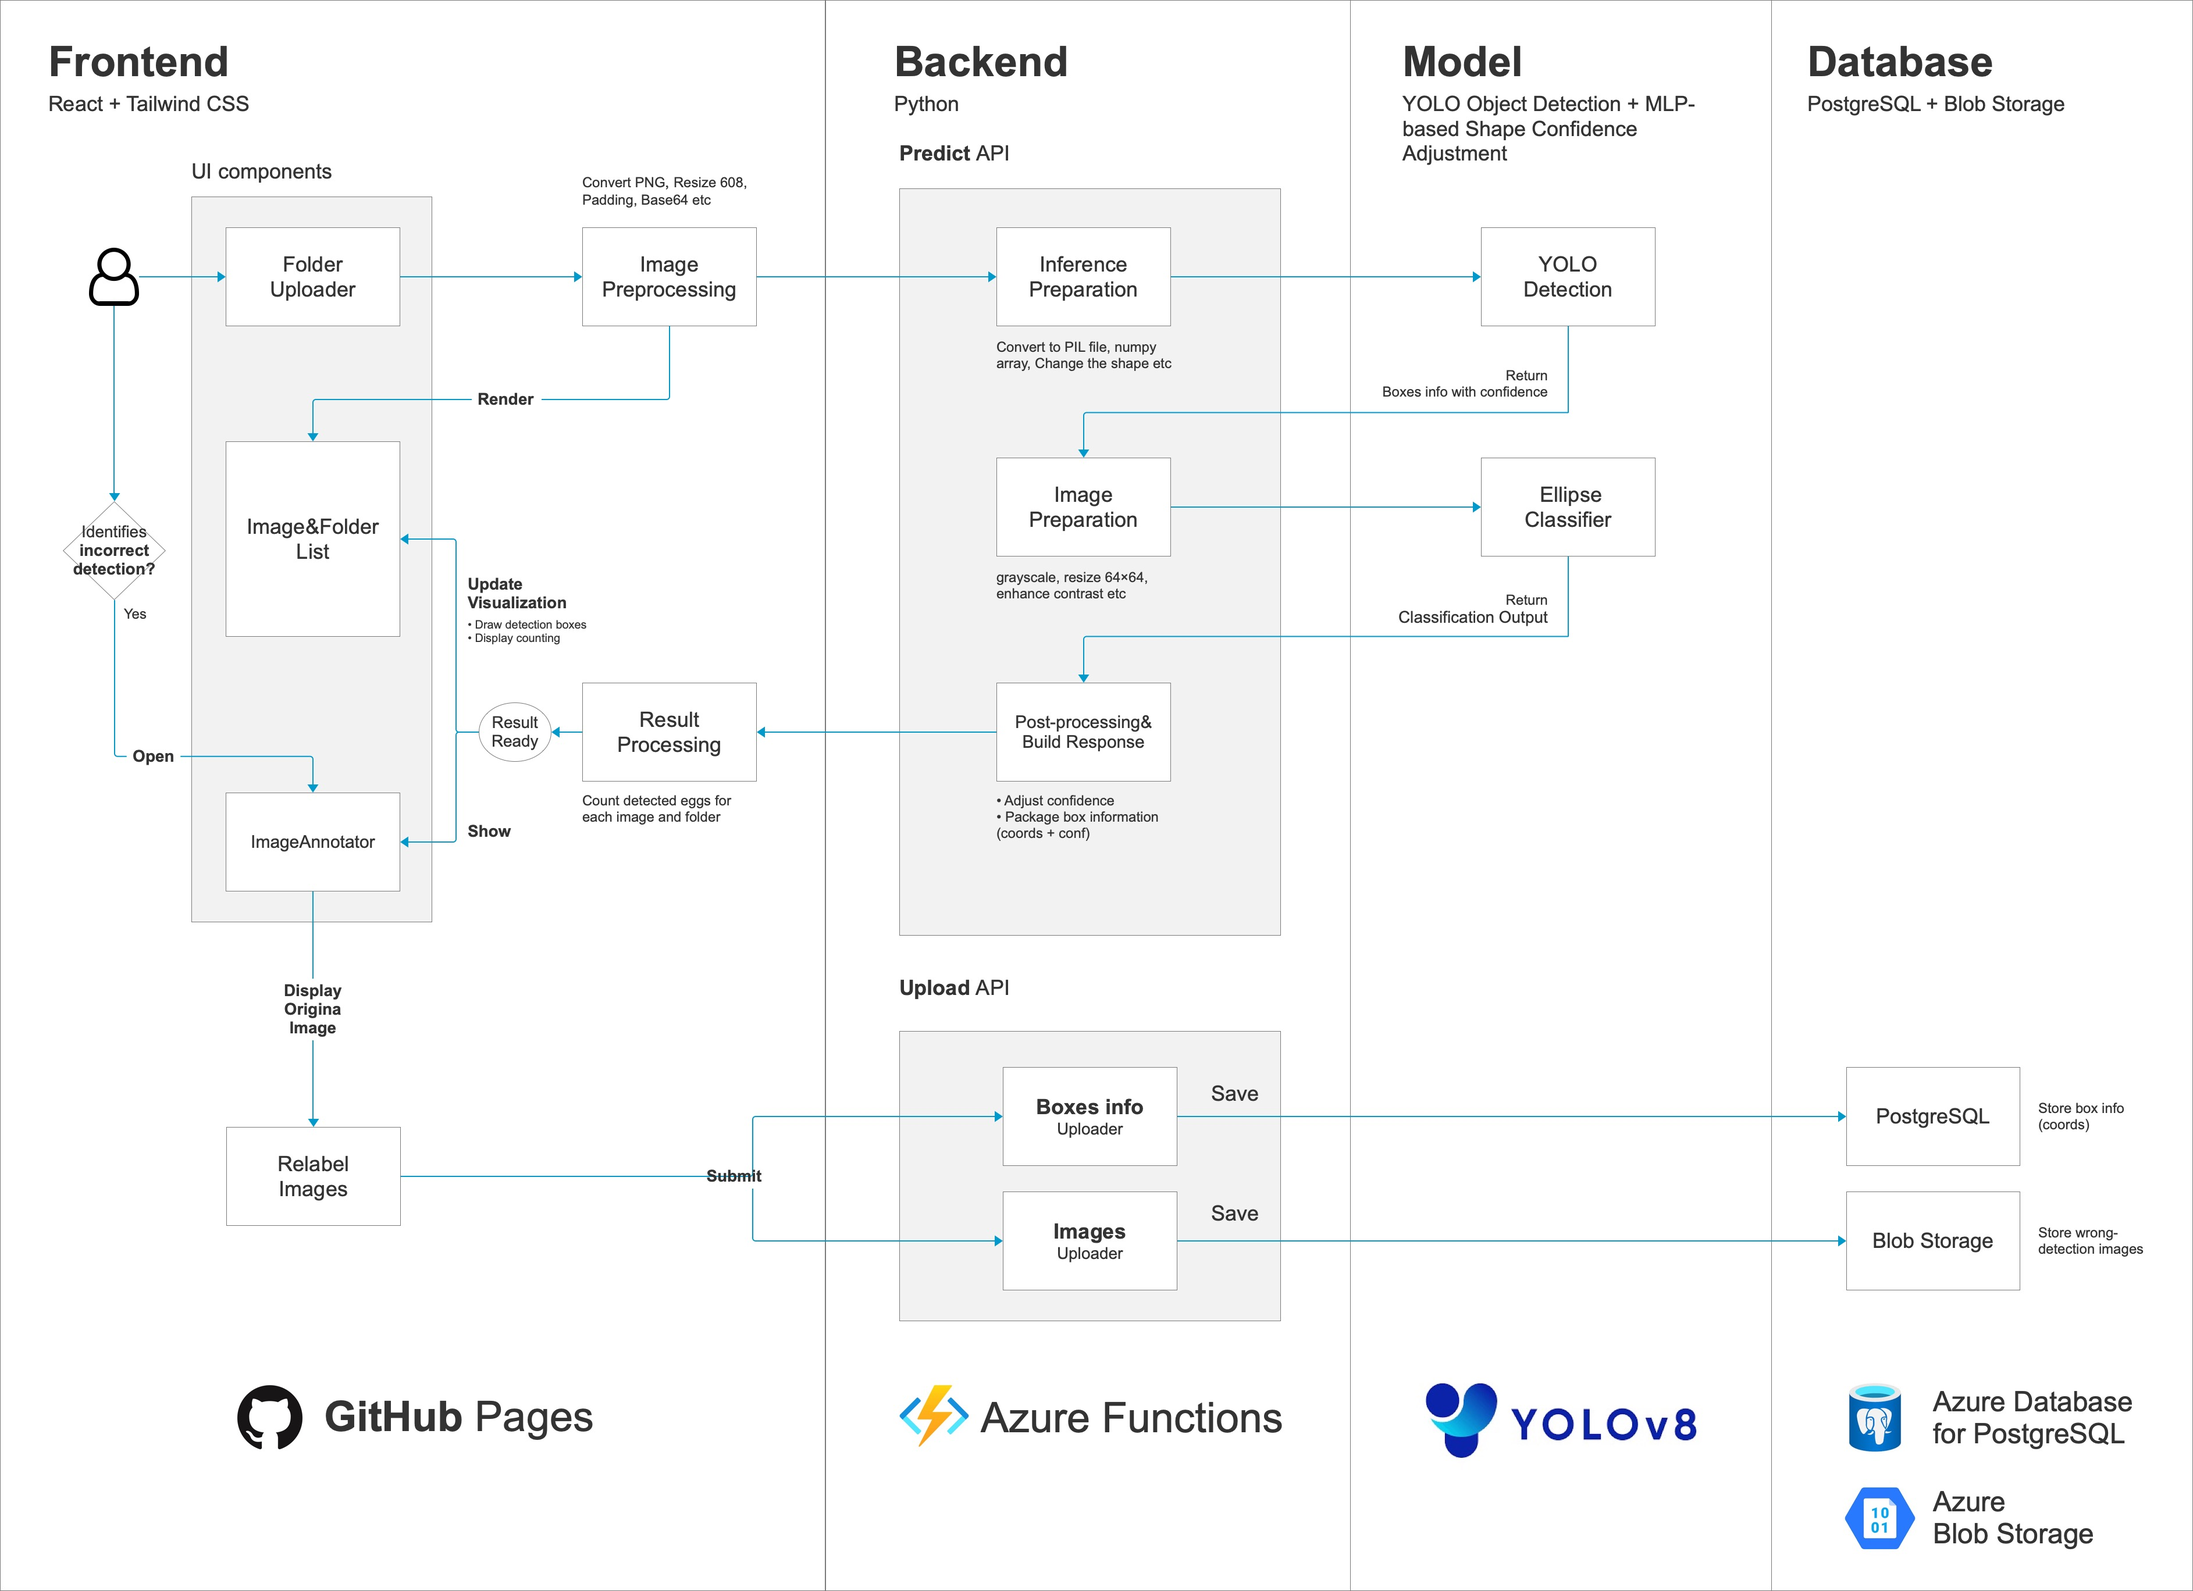
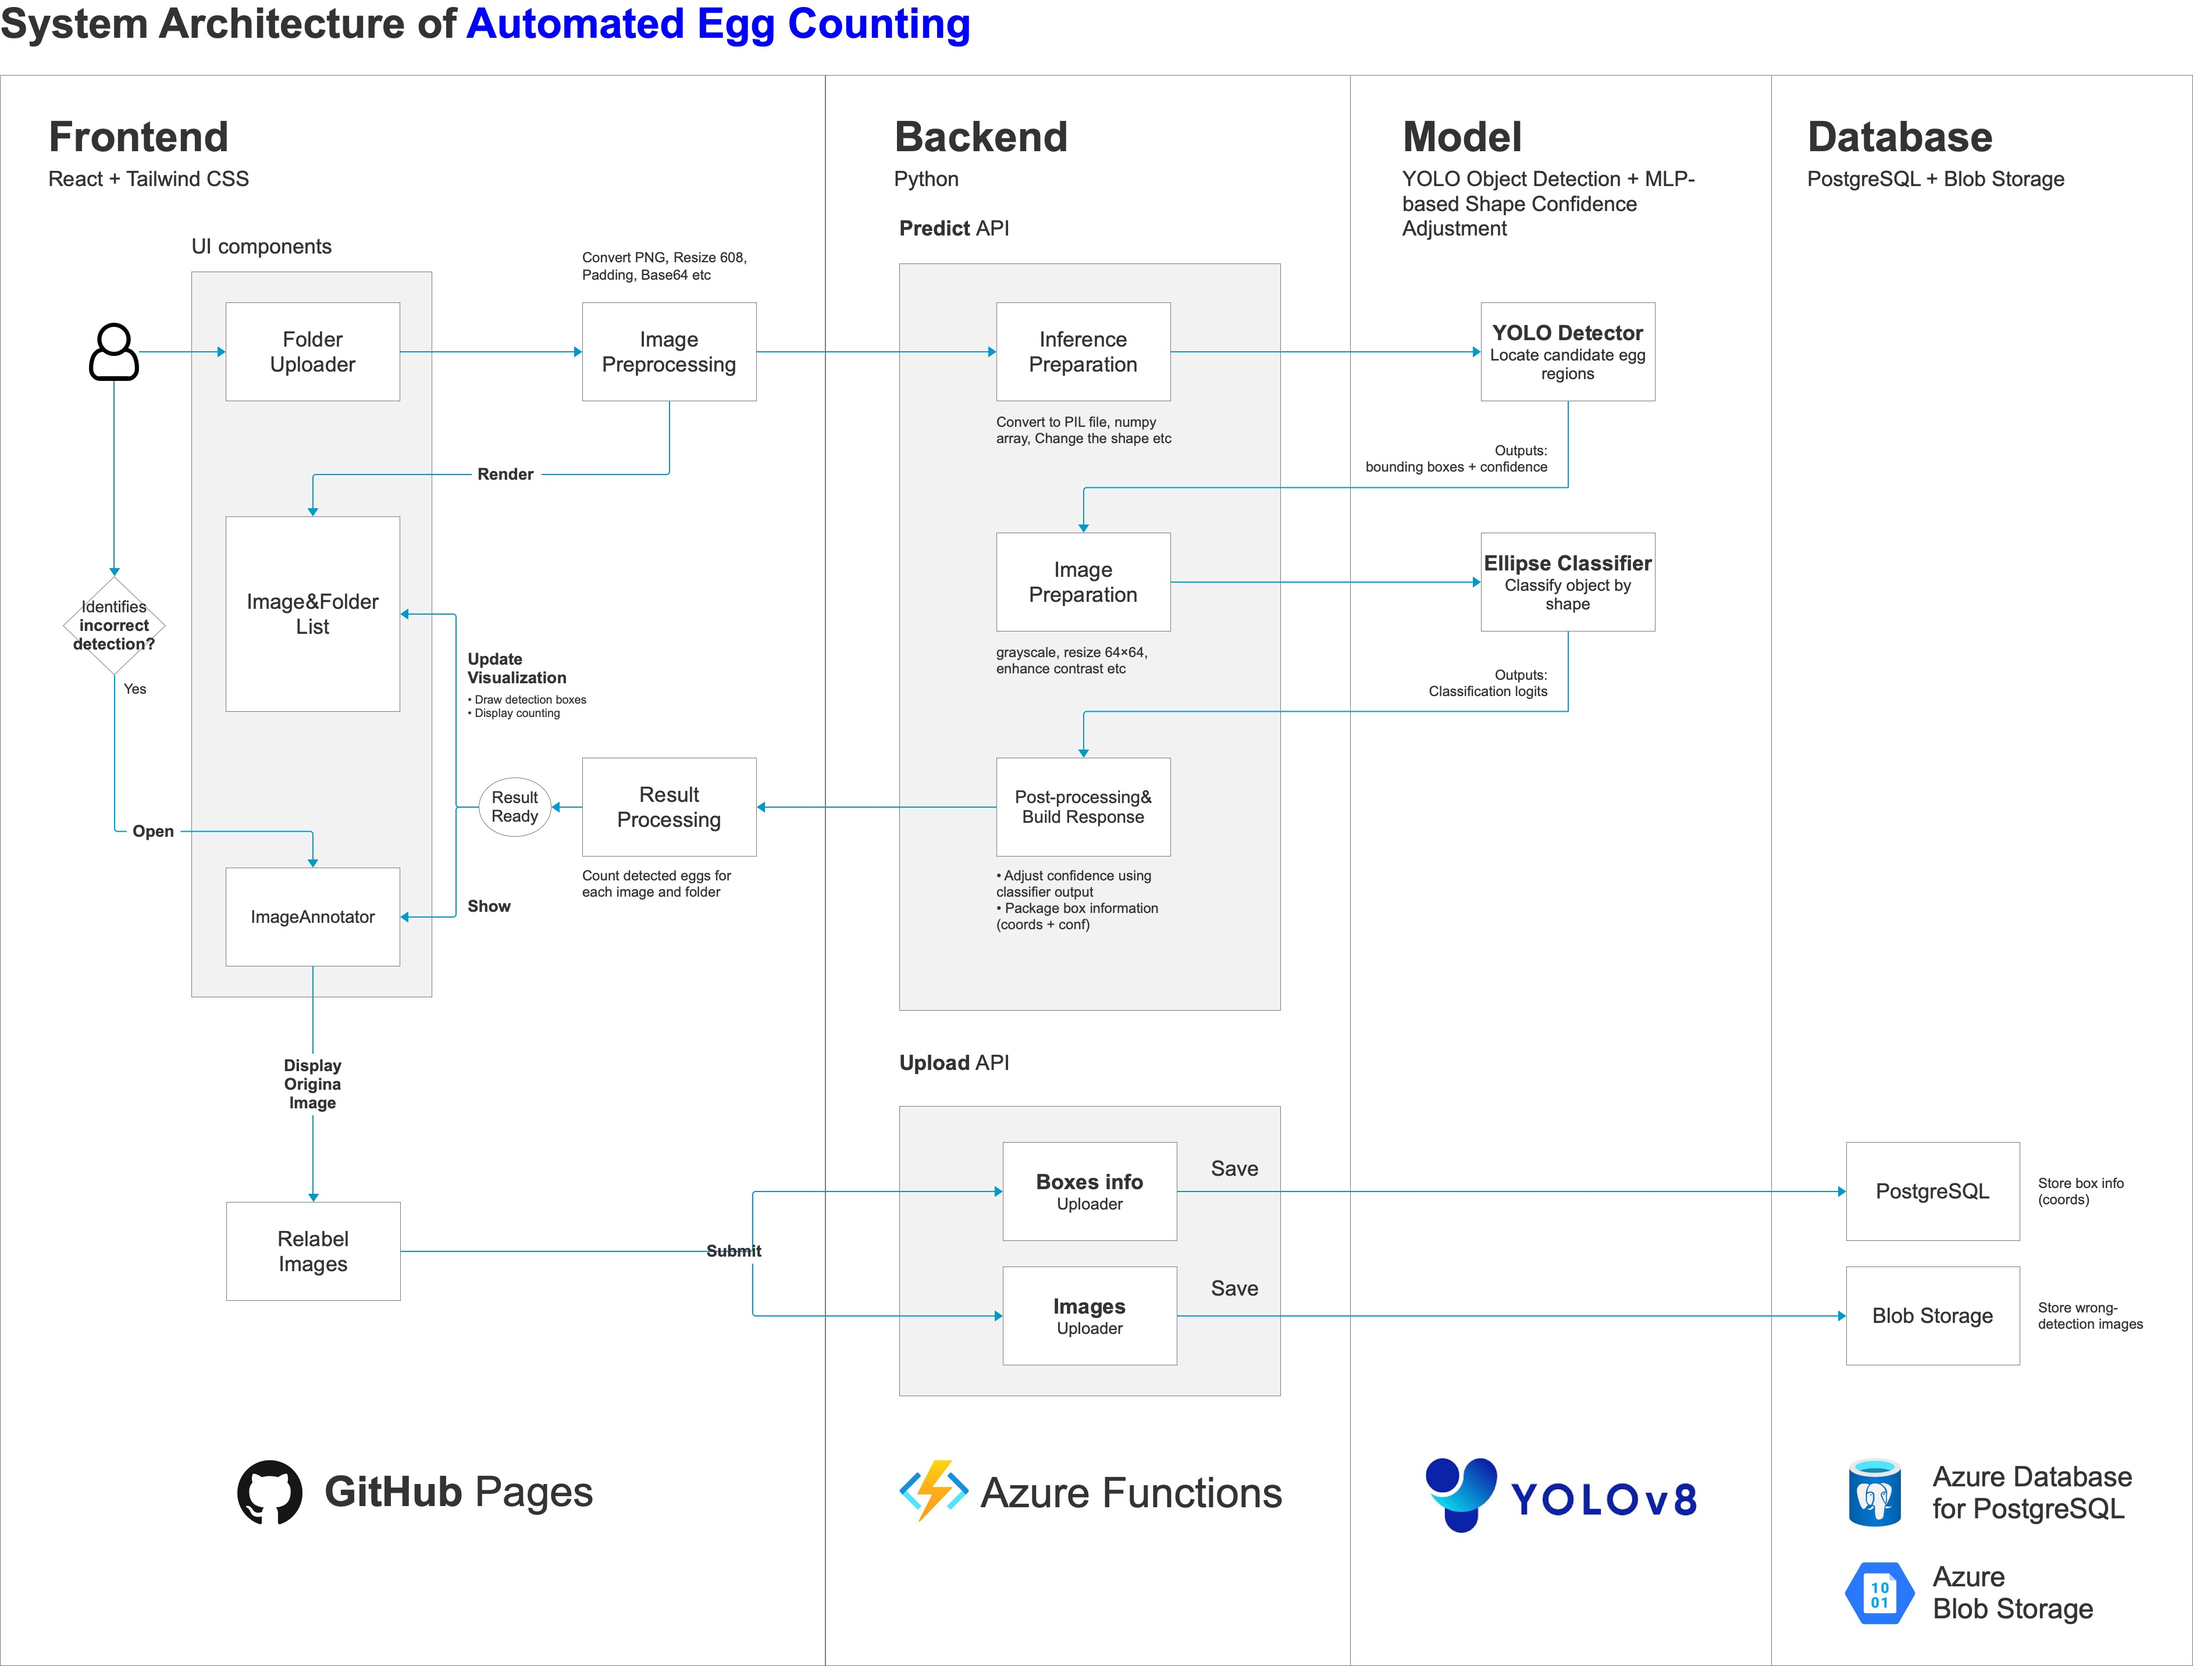
Update architecture diagram and tech stack section

diff --git a/README.md b/README.md
@@ -6,7 +6,6 @@ Parasite infections are a major problem for farm animals and can cause significa
 
 <img width="360" height="270" alt="image" src="https://github.com/user-attachments/assets/cff5b22e-66b4-42a0-a2b7-c2a87885afd6" />
 
-
 ### 1.2 Problem
 
 The current manual egg-counting process is highly repetitive and time-consuming, which can be a serious bottleneck in parasite research and in animal health monitoring.
@@ -31,11 +30,11 @@ The original work laid a solid foundation with powerful model training tools. I 
 
 ### 2.2 Tech Stack for this Project
 
-- **Frontend:** React, Tailwind CSS, Vite — deployed via GitHub Pages
-- **Backend (Cloud):** Azure Functions (Python, ONNX Runtime)
-- **Backend (Local):** Flask — for development and testing
-- **Model Frameworks:** YOLO, DeepLab, and Faster R-CNN — all based on PyTorch
+- **Frontend:** React, Tailwind CSS, Vite 
+- **Backend :** Python, Flask
+- **Machine Learning & AI:** YOLO, MLP, PyTorch, ONNX Runtime
 - **Database & Storage:** Azure Blob Storage + Azure Database for PostgreSQL Flexible Server
+- **Deployment:** GitHub Pages(Frontend), Azure Function(Backend)
 
 ## 3. Model Details & Evaluation Results
 
